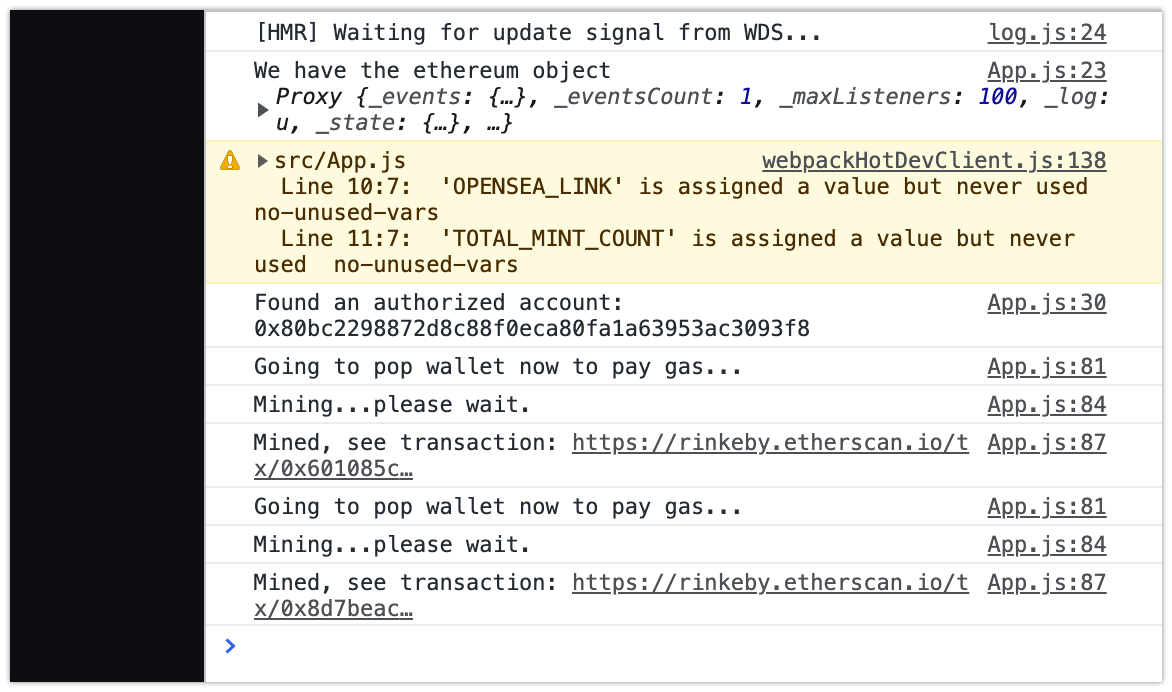
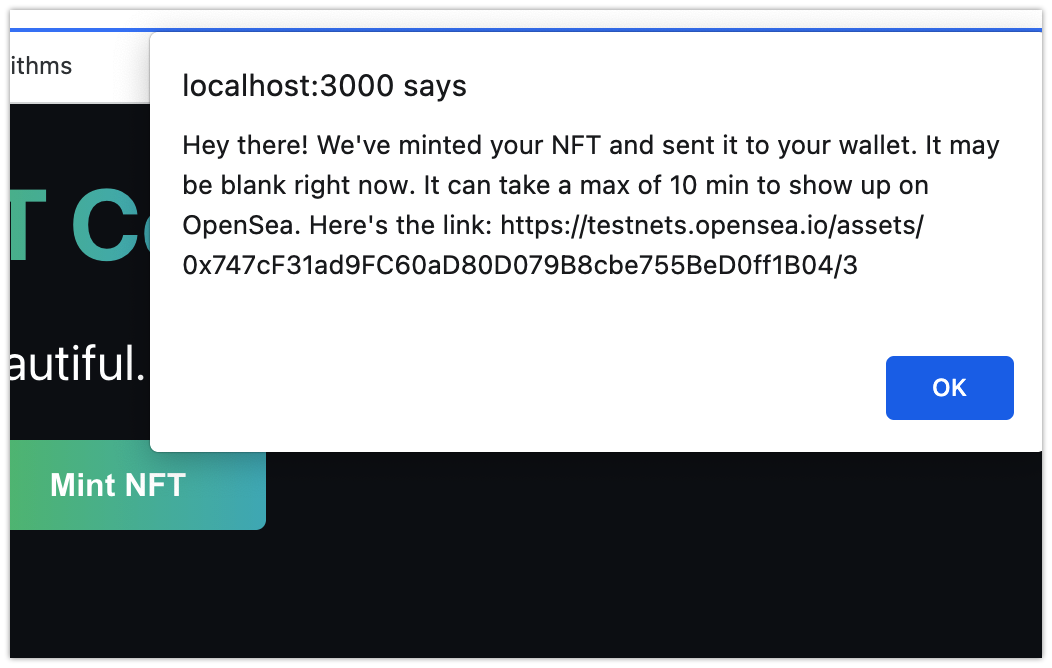
add alert with minted NFT link to OpenSea

diff --git a/react-epic-nfts/src/App.js b/react-epic-nfts/src/App.js
@@ -1,14 +1,16 @@
-import React, { useEffect, useState } from "react";
 import "./styles/App.css";
 import twitterLogo from "./assets/twitter-logo.svg";
 import { ethers } from "ethers";
-
+import React, { useEffect, useState } from "react";
 import myEpicNft from "./utils/MyEpicNFT.json";
 
 const TWITTER_HANDLE = "_buildspace";
 const TWITTER_LINK = `https://twitter.com/${TWITTER_HANDLE}`;
 const OPENSEA_LINK = "";
 const TOTAL_MINT_COUNT = 50;
+
+// I moved the contract address to the top for easy access.
+const CONTRACT_ADDRESS = "0x747cF31ad9FC60aD80D079B8cbe755BeD0ff1B04";
 
 const App = () => {
   const [currentAccount, setCurrentAccount] = useState("");
@@ -29,14 +31,15 @@ const App = () => {
       const account = accounts[0];
       console.log("Found an authorized account:", account);
       setCurrentAccount(account);
+
+      // Setup listener! This is for the case where a user comes to our site
+      // and ALREADY had their wallet connected + authorized.
+      setupEventListener();
     } else {
       console.log("No authorized account found");
     }
   };
 
-  /*
-   * Implement your connectWallet method here
-   */
   const connectWallet = async () => {
     try {
       const { ethereum } = window;
@@ -46,26 +49,57 @@ const App = () => {
         return;
       }
 
-      /*
-       * Fancy method to request access to account.
-       */
       const accounts = await ethereum.request({
         method: "eth_requestAccounts",
       });
 
-      /*
-       * Boom! This should print out public address once we authorize Metamask.
-       */
       console.log("Connected", accounts[0]);
       setCurrentAccount(accounts[0]);
+
+      // Setup listener! This is for the case where a user comes to our site
+      // and connected their wallet for the first time.
+      setupEventListener();
+    } catch (error) {
+      console.log(error);
+    }
+  };
+
+  // Setup our listener.
+  const setupEventListener = async () => {
+    // Most of this looks the same as our function askContractToMintNft
+    try {
+      const { ethereum } = window;
+
+      if (ethereum) {
+        // Same stuff again
+        const provider = new ethers.providers.Web3Provider(ethereum);
+        const signer = provider.getSigner();
+        const connectedContract = new ethers.Contract(
+          CONTRACT_ADDRESS,
+          myEpicNft.abi,
+          signer
+        );
+
+        // THIS IS THE MAGIC SAUCE.
+        // This will essentially "capture" our event when our contract throws it.
+        // If you're familiar with webhooks, it's very similar to that!
+        connectedContract.on("NewEpicNFTMinted", (from, tokenId) => {
+          console.log(from, tokenId.toNumber());
+          alert(
+            `Hey there! We've minted your NFT and sent it to your wallet. It may be blank right now. It can take a max of 10 min to show up on OpenSea. Here's the link: https://testnets.opensea.io/assets/${CONTRACT_ADDRESS}/${tokenId.toNumber()}`
+          );
+        });
+
+        console.log("Setup event listener!");
+      } else {
+        console.log("Ethereum object doesn't exist!");
+      }
     } catch (error) {
       console.log(error);
     }
   };
 
   const askContractToMintNft = async () => {
-    // INSERT_YOUR_DEPLOYED_RINKEBY_CONTRACT_ADDRESS
-    const CONTRACT_ADDRESS = "0xab17470715b74927F208aE28E31B537973726729";
     try {
       const { ethereum } = window;
 
@@ -83,7 +117,7 @@ const App = () => {
 
         console.log("Mining...please wait.");
         await nftTxn.wait();
-
+        console.log(nftTxn);
         console.log(
           `Mined, see transaction: https://rinkeby.etherscan.io/tx/${nftTxn.hash}`
         );
@@ -94,7 +128,11 @@ const App = () => {
       console.log(error);
     }
   };
-  // Render Methods
+
+  useEffect(() => {
+    checkIfWalletIsConnected();
+  }, []);
+
   const renderNotConnectedContainer = () => (
     <button
       onClick={connectWallet}
@@ -104,13 +142,15 @@ const App = () => {
     </button>
   );
 
-  useEffect(() => {
-    checkIfWalletIsConnected();
-  }, []);
+  const renderMintUI = () => (
+    <button
+      onClick={askContractToMintNft}
+      className="cta-button connect-wallet-button"
+    >
+      Mint NFT
+    </button>
+  );
 
-  /*
-   * Added a conditional render! We don't want to show Connect to Wallet if we're already conencted :).
-   */
   return (
     <div className="App">
       <div className="container">
@@ -119,16 +159,9 @@ const App = () => {
           <p className="sub-text">
             Each unique. Each beautiful. Discover your NFT today.
           </p>
-          {currentAccount === "" ? (
-            renderNotConnectedContainer()
-          ) : (
-            <button
-              onClick={askContractToMintNft}
-              className="cta-button connect-wallet-button"
-            >
-              Mint NFT
-            </button>
-          )}
+          {currentAccount === ""
+            ? renderNotConnectedContainer()
+            : renderMintUI()}
         </div>
         <div className="footer-container">
           <img alt="Twitter Logo" className="twitter-logo" src={twitterLogo} />
